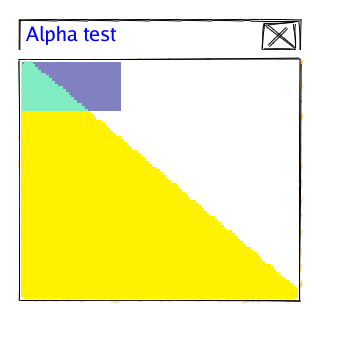
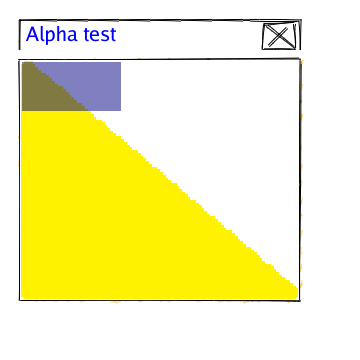
Inverse it

Changed region(s): [[0.0611, 0.1528, 0.2444, 0.3056]]

diff --git a/draw/drawmodes.go b/draw/drawmodes.go
@@ -8,12 +8,12 @@ import (
 // Over is the alpha mode applied by draw.Draw() Probably inaccurate.
 func Over(baseC color.Color, a1 uint32, r1 uint32, g1 uint32, b1 uint32) color.Color {
 	baser, baseg, baseb, basea := baseC.RGBA()
-	reva := (math.MaxUint16 - a1) * 0x101
+	invA1 := math.MaxUint16 - a1
 	c := color.RGBA{
-		R: uint8((uint32(baser)*reva/math.MaxUint16 + r1*a1) >> 8),
-		G: uint8((uint32(baseg)*reva/math.MaxUint16 + g1*a1) >> 8),
-		B: uint8((uint32(baseb)*reva/math.MaxUint16 + b1*a1) >> 8),
-		A: uint8((uint32(basea)*reva/math.MaxUint16 + a1) >> 8),
+		R: uint8((uint32(baser)*invA1/math.MaxUint16 + r1*a1) >> 8),
+		G: uint8((uint32(baseg)*invA1/math.MaxUint16 + g1*a1) >> 8),
+		B: uint8((uint32(baseb)*invA1/math.MaxUint16 + b1*a1) >> 8),
+		A: uint8((uint32(basea)*invA1/math.MaxUint16 + a1) >> 8),
 	}
 	return &c
 }
